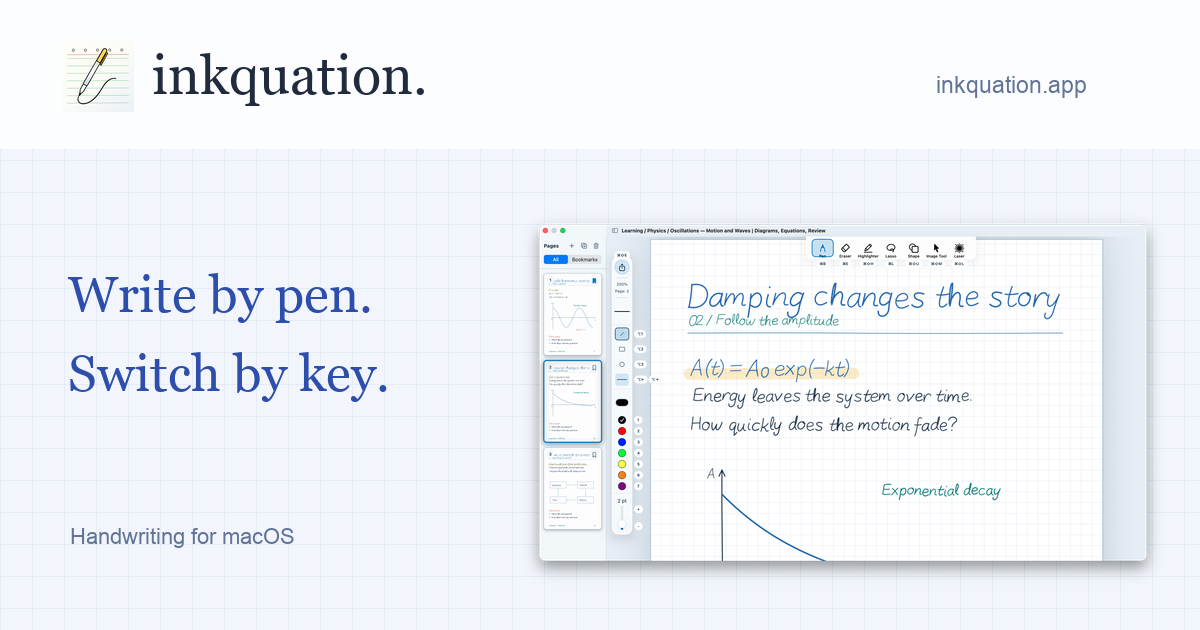
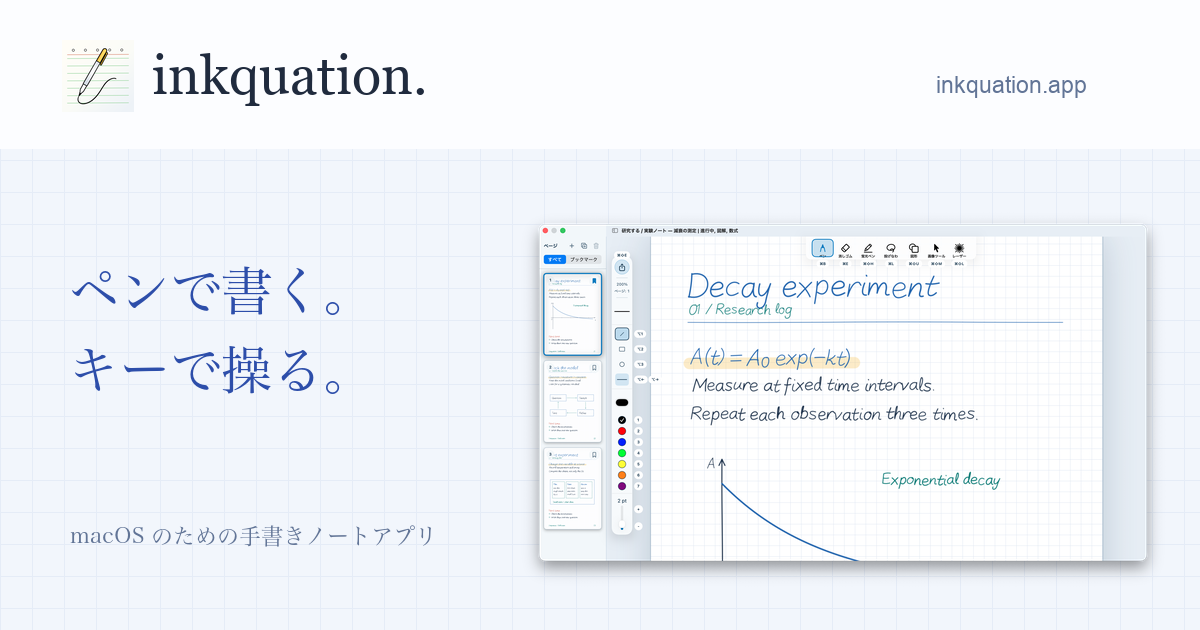
Localize social cards and image alternatives in all six languages

diff --git a/app/translations.ts b/app/translations.ts
@@ -1,3 +1,4 @@
+import heroCopy from './hero-copy.json';
 import type { SiteCopy } from './copy';
 
 export const zhHans: SiteCopy = {
@@ -17,16 +18,13 @@ export const zhHans: SiteCopy = {
     ai: 'AI 连接',
   },
   hero: {
-    lead: '用笔书写。',
-    prefix: '用键盘',
-    accent: '操作。',
+    ...heroCopy['zh-Hans'],
     description: [
       '亲手写下公式，一步步完成计算。',
       '另一只手切换工具，调整颜色和线宽。',
       '无需将指针移出笔记。',
     ],
     primary: '查看快捷键',
-    platform: '专为 macOS 设计的手写笔记应用',
     aiLink: '现已支持 AI 连接',
   },
   screenshot: {
@@ -94,10 +92,7 @@ export const zhHans: SiteCopy = {
   },
   features: {
     title: ['用手思考，', '工具恰到好处。'],
-    description: [
-      '随时开始书写，需要时再调整。',
-      '让灵感轻松落在纸上。',
-    ],
+    description: ['随时开始书写，需要时再调整。', '让灵感轻松落在纸上。'],
     write: {
       title: '落下第一笔，让想法展开。',
       description:
@@ -246,16 +241,13 @@ export const zhHant: SiteCopy = {
     ai: 'AI 連線',
   },
   hero: {
-    lead: '用筆書寫。',
-    prefix: '用鍵盤',
-    accent: '操作。',
+    ...heroCopy['zh-Hant'],
     description: [
       '親手寫下公式，一步步完成計算。',
       '另一隻手切換工具，調整顏色與線寬。',
       '無須將指標移出筆記。',
     ],
     primary: '查看快速鍵',
-    platform: '專為 macOS 設計的手寫筆記 App',
     aiLink: '現已支援 AI 連線',
   },
   screenshot: {
@@ -323,10 +315,7 @@ export const zhHant: SiteCopy = {
   },
   features: {
     title: ['用手思考，', '工具恰到好處。'],
-    description: [
-      '隨時開始書寫，需要時再調整。',
-      '讓靈感輕鬆落在紙上。',
-    ],
+    description: ['隨時開始書寫，需要時再調整。', '讓靈感輕鬆落在紙上。'],
     write: {
       title: '落下第一筆，讓想法展開。',
       description:
@@ -475,16 +464,13 @@ export const zhHK: SiteCopy = {
     ai: 'AI 連線',
   },
   hero: {
-    lead: '用筆書寫。',
-    prefix: '用鍵盤',
-    accent: '操作。',
+    ...heroCopy['zh-HK'],
     description: [
       '親手寫下公式，一步步完成計算。',
       '另一隻手切換工具，調整顏色和線寬。',
       '毋須將指標移出筆記。',
     ],
     primary: '查看快捷鍵',
-    platform: '專為 macOS 設計的手寫筆記 App',
     aiLink: '現已支援 AI 連線',
   },
   screenshot: {
@@ -552,10 +538,7 @@ export const zhHK: SiteCopy = {
   },
   features: {
     title: ['用手思考，', '工具恰到好處。'],
-    description: [
-      '隨時開始書寫，需要時再調整。',
-      '讓靈感輕鬆落在紙上。',
-    ],
+    description: ['隨時開始書寫，需要時再調整。', '讓靈感輕鬆落在紙上。'],
     write: {
       title: '落下第一筆，讓想法展開。',
       description:
@@ -704,16 +687,13 @@ export const ko: SiteCopy = {
     ai: 'AI 연결',
   },
   hero: {
-    lead: '펜으로 쓰고,',
-    prefix: '키보드로 ',
-    accent: '조작하세요.',
+    ...heroCopy.ko,
     description: [
       '수식과 계산 과정을 손으로 써 내려가세요.',
       '다른 손으로 도구, 색상, 선 굵기를 바꾸세요.',
       '포인터를 노트 밖으로 옮길 필요 없이요.',
     ],
     primary: '단축키 살펴보기',
-    platform: 'macOS를 위한 손글씨 노트 앱',
     aiLink: '이제 AI 연결도 지원합니다',
   },
   screenshot: {

diff --git a/app/copy.ts b/app/copy.ts
@@ -1,3 +1,4 @@
+import heroCopy from './hero-copy.json';
 import locales from './locales.json';
 import { zhHans, zhHant, zhHK, ko } from './translations';
 
@@ -20,16 +21,13 @@ const ja = {
     ai: 'AI連携',
   },
   hero: {
-    lead: 'ペンで書く。',
-    prefix: 'キーで',
-    accent: '操る。',
+    ...heroCopy.ja,
     description: [
       '数式も、途中の計算も、手で書き進める。',
       'もう片手でツールを切り替え、色や線幅を調整。',
       'ノートからポインターを動かさずに。',
     ],
     primary: 'ショートカットを見る',
-    platform: 'macOS のための手書きノートアプリ',
     aiLink: 'AI連携に対応しました',
   },
   screenshot: {
@@ -269,16 +267,13 @@ const en: SiteCopy = {
     ai: 'AI integration',
   },
   hero: {
-    lead: 'Write by pen.',
-    prefix: 'Switch by ',
-    accent: 'key.',
+    ...heroCopy.en,
     description: [
       'Work through equations and calculations by hand.',
       'Switch tools, colors, and stroke width with your other hand,',
       'without moving the pointer away from your notes.',
     ],
     primary: 'Explore the shortcuts',
-    platform: 'A handwriting notebook, made for macOS',
     aiLink: 'Now with AI integration',
   },
   screenshot: {

diff --git a/app/page-metadata.ts b/app/page-metadata.ts
@@ -1,6 +1,6 @@
 import type { Metadata } from 'next';
-import { siteOrigin, sitePath } from '../site.config';
-import type { Locale } from './copy';
+import { siteOrigin } from '../site.config';
+import { siteCopy, type Locale } from './copy';
 import {
   languageAlternates,
   localePath,
@@ -23,11 +23,12 @@ export function pageMetadata(
   description: string,
 ): Metadata {
   const metadataBase = new URL(siteOrigin ?? 'https://inkquation.app');
+  const { lead, prefix, accent } = siteCopy[locale].hero;
   const image = {
-    url: new URL(sitePath('/og.png'), metadataBase).href,
+    url: new URL(`${localePath(locale)}og.png`, metadataBase).href,
     width: 1200,
     height: 630,
-    alt: 'Inkquation — Write by pen. Switch by key.',
+    alt: `Inkquation — ${lead} ${prefix}${accent}`,
   };
   return {
     title,

diff --git a/scripts/prepare-site-images.py b/scripts/prepare-site-images.py
@@ -1,46 +1,95 @@
-"""Regenerate checked-in WebP previews and the social card (requires Pillow).
+"""Regenerate checked-in WebP previews and six localized social cards.
 
-Run from the site root. Original app screenshots remain unchanged.
-The social card uses macOS Georgia/Arial; pass --font-dir for another font folder.
+Requires Pillow and macOS fonts. Use --social-only for social-card changes.
+Headlines and platform labels come from the same JSON as the landing pages.
+Original app screenshots remain unchanged.
 """
 
 import argparse
+import json
 from pathlib import Path
 
-from PIL import Image, ImageDraw, ImageFont
+from PIL import Image, ImageDraw, ImageFont, PngImagePlugin
 
 parser = argparse.ArgumentParser(description=__doc__)
 parser.add_argument('--font-dir', type=Path, default=Path('/System/Library/Fonts/Supplemental'))
+parser.add_argument('--system-font-dir', type=Path, default=Path('/System/Library/Fonts'))
+parser.add_argument('--social-only', action='store_true')
 args = parser.parse_args()
+
+root = Path(__file__).resolve().parent.parent
+public = root / 'public'
+assets = public / 'assets'
+locales = json.loads((root / 'app/locales.json').read_text())
+hero_copy = json.loads((root / 'app/hero-copy.json').read_text())
+assert set(locales) == set(hero_copy), 'Every site language needs social-card copy'
+
 serif = args.font_dir / 'Georgia.ttf'
 sans = args.font_dir / 'Arial.ttf'
-if not serif.is_file() or not sans.is_file():
-    parser.error('--font-dir must contain Georgia.ttf and Arial.ttf')
+japanese = next(args.system_font_dir.glob('*明朝 ProN.ttc'), None)
+songti = args.font_dir / 'Songti.ttc'
+korean = args.font_dir / 'AppleMyungjo.ttf'
+for font in [serif, sans, japanese, songti, korean]:
+    if font is None or not font.is_file():
+        parser.error(f'Missing font: {font}; check --font-dir and --system-font-dir')
 
-assets = Path(__file__).resolve().parent.parent / 'public' / 'assets'
-for name in ['inkquation-editor', 'inkquation-editor-en']:
-    with Image.open(assets / f'{name}.png') as source:
-        for width in [480, 960, 1440, 1920]:
-            height = round(source.height * width / source.width)
-            preview = source.resize((width, height), Image.Resampling.LANCZOS)
-            preview.save(assets / f'{name}-{width}.webp', quality=86, method=6)
+# Songti's regular SC and TC faces preserve each writing system's glyph forms.
+faces = {
+    'ja': (japanese, 0),
+    'en': (serif, 0),
+    'zh-Hans': (songti, 6),
+    'zh-Hant': (songti, 7),
+    'zh-HK': (songti, 7),
+    'ko': (korean, 0),
+}
 
-card = Image.new('RGBA', (1200, 630), '#f2f6fc')
-draw = ImageDraw.Draw(card)
-for x in range(0, 1200, 32):
-    draw.line((x, 0, x, 630), fill='#e5ecf7')
-for y in range(0, 630, 32):
-    draw.line((0, y, 1200, y), fill='#e5ecf7')
-draw.rectangle((0, 0, 1200, 148), fill='#fcfdff')
-with Image.open(assets / 'inkquation-icon.png') as icon:
-    card.alpha_composite(icon.resize((72, 72), Image.Resampling.LANCZOS), (62, 40))
-draw.text((152, 44), 'inkquation.', font=ImageFont.truetype(str(serif), 54), fill='#202b3e')
-draw.text((936, 72), 'inkquation.app', font=ImageFont.truetype(str(sans), 23), fill='#617496')
-for y, text in [(265, 'Write by pen.'), (344, 'Switch by key.')]:
-    draw.text((68, y), text, font=ImageFont.truetype(str(serif), 51), fill='#2d4eaa')
-draw.text((70, 524), 'Handwriting for macOS', font=ImageFont.truetype(str(sans), 22), fill='#617496')
-with Image.open(assets / 'inkquation-editor-en.png') as screenshot:
-    screenshot.thumbnail((650, 410), Image.Resampling.LANCZOS)
-    card.alpha_composite(screenshot, (518, 210))
-card.convert('RGB').save(assets.parent / 'og.png', optimize=True)
-print('Generated eight WebP previews and public/og.png.')
+if not args.social_only:
+    for name in ['inkquation-editor', 'inkquation-editor-en']:
+        with Image.open(assets / f'{name}.png') as source:
+            for width in [480, 960, 1440, 1920]:
+                height = round(source.height * width / source.width)
+                preview = source.resize((width, height), Image.Resampling.LANCZOS)
+                preview.save(assets / f'{name}-{width}.webp', quality=86, method=6)
+
+
+def fit_font(draw, lines, face, maximum, minimum=18):
+    path, index = face
+    for size in range(maximum, minimum - 1, -1):
+        font = ImageFont.truetype(str(path), size, index=index)
+        if all(draw.textlength(line, font=font) <= 420 for line in lines):
+            return font
+    raise ValueError(f'Text does not fit the social card: {lines}')
+
+
+for locale, info in locales.items():
+    copy = hero_copy[locale]
+    lines = [copy['lead'], copy['prefix'] + copy['accent']]
+    title = 'Inkquation — ' + ' '.join(lines)
+    card = Image.new('RGBA', (1200, 630), '#f2f6fc')
+    draw = ImageDraw.Draw(card)
+    for x in range(0, 1200, 32):
+        draw.line((x, 0, x, 630), fill='#e5ecf7')
+    for y in range(0, 630, 32):
+        draw.line((0, y, 1200, y), fill='#e5ecf7')
+    draw.rectangle((0, 0, 1200, 148), fill='#fcfdff')
+    with Image.open(assets / 'inkquation-icon.png') as icon:
+        card.alpha_composite(icon.resize((72, 72), Image.Resampling.LANCZOS), (62, 40))
+    draw.text((152, 44), 'inkquation.', font=ImageFont.truetype(str(serif), 54), fill='#202b3e')
+    draw.text((936, 72), 'inkquation.app', font=ImageFont.truetype(str(sans), 23), fill='#617496')
+    headline_font = fit_font(draw, lines, faces[locale], maximum=51)
+    for y, text in zip([265, 344], lines):
+        draw.text((68, y), text, font=headline_font, fill='#2d4eaa')
+    subtitle_face = (sans, 0) if locale == 'en' else faces[locale]
+    subtitle_font = fit_font(draw, [copy['platform']], subtitle_face, maximum=22)
+    draw.text((70, 524), copy['platform'], font=subtitle_font, fill='#617496')
+    image_name = 'inkquation-editor-en' if locale == 'en' else 'inkquation-editor'
+    with Image.open(assets / f'{image_name}.png') as screenshot:
+        screenshot.thumbnail((650, 410), Image.Resampling.LANCZOS)
+        card.alpha_composite(screenshot, (518, 210))
+    metadata = PngImagePlugin.PngInfo()
+    metadata.add_itxt('Title', title, lang=locale)
+    metadata.add_itxt('Description', copy['platform'], lang=locale)
+    target = public / info['path'].strip('/') / 'og.png'
+    target.parent.mkdir(parents=True, exist_ok=True)
+    card.convert('RGB').save(target, optimize=True, pnginfo=metadata)
+    print(f'{locale}: {target.relative_to(public)} — {title}')

diff --git a/README.md b/README.md
@@ -104,7 +104,9 @@ The English page translates the copy, tabs, image descriptions, accessibility la
 
 The hero uses editor screenshots copied on 2026-09-25: `../inkquation/app-store/screenshots/ja/sources/04-research-note.png` and `../inkquation/app-store/screenshots/en/sources/スクリーンショット 2026-09-25 9.49.55.png`. They show handwritten decay notes and the compact toolbar in the corresponding app language. The original PNGs remain available through the expand links. Normal page loads use WebP previews at 480, 960, 1440, or 1920 pixels wide, selected with `srcset` and `sizes`; the Japanese variants are about 15–124 KB, compared with the 2.87 MB original. The app is not being advertised as offering handwriting recognition, typesetting, or graph generation.
 
-Every localized page has page-specific Open Graph and Twitter Card metadata, using the shared 1200×630 `/og.png` social card. `app/page-metadata.ts` keeps titles, descriptions, canonical URLs, and social URLs aligned, including deployments under a base path. Home pages also include `SoftwareApplication` JSON-LD with the macOS platform and TestFlight link; no price, release version, or rating is inferred. These fields describe the app without promising search-result enhancements. `verify:pages` checks the rendered metadata on all 30 pages, the PNG dimensions, the structured data, and the responsive assets. To regenerate the checked-in image derivatives after replacing an original screenshot, run `python3 scripts/prepare-site-images.py` on macOS with Pillow installed. Asset generation is separate from the website build and adds no production dependency.
+Every localized page has page-specific Open Graph and Twitter Card metadata and a 1200×630 social card in its own language: `/og.png`, `/en/og.png`, `/zh-Hans/og.png`, `/zh-Hant/og.png`, `/zh-HK/og.png`, and `/ko/og.png`. Each card and its alternative text use the same headline as the matching home page. `app/hero-copy.json` is the shared source for those headlines and platform labels; edit it to update the site and regenerate the images. The cards use Japanese, Simplified/Traditional Chinese, and Korean fonts as appropriate. English uses the English app screenshot; the other cards retain the Japanese screenshot already used by their home pages.
+
+`app/page-metadata.ts` keeps titles, descriptions, canonical URLs, and social URLs aligned, including deployments under a base path. Home pages also include `SoftwareApplication` JSON-LD with the macOS platform and TestFlight link; no price, release version, or rating is inferred. These fields describe the app without promising search-result enhancements. `verify:pages` checks the rendered metadata on all 30 pages, the six PNGs' dimensions and embedded localized copy, headline consistency, the structured data, and responsive assets. To regenerate the checked-in image derivatives, run `python3 scripts/prepare-site-images.py` on macOS with Pillow and the system fonts installed. For social-card changes alone, use `python3 scripts/prepare-site-images.py --social-only`. Asset generation is separate from the website build and adds no production dependency.
 
 The website uses a light palette. The screenshot retains the supplied light app chrome and transparency; no extra CSS border or rectangular shadow is added around the image. The interactive paper sample lower on the page is clearly labelled as a paper illustration, not an app screenshot.
 
